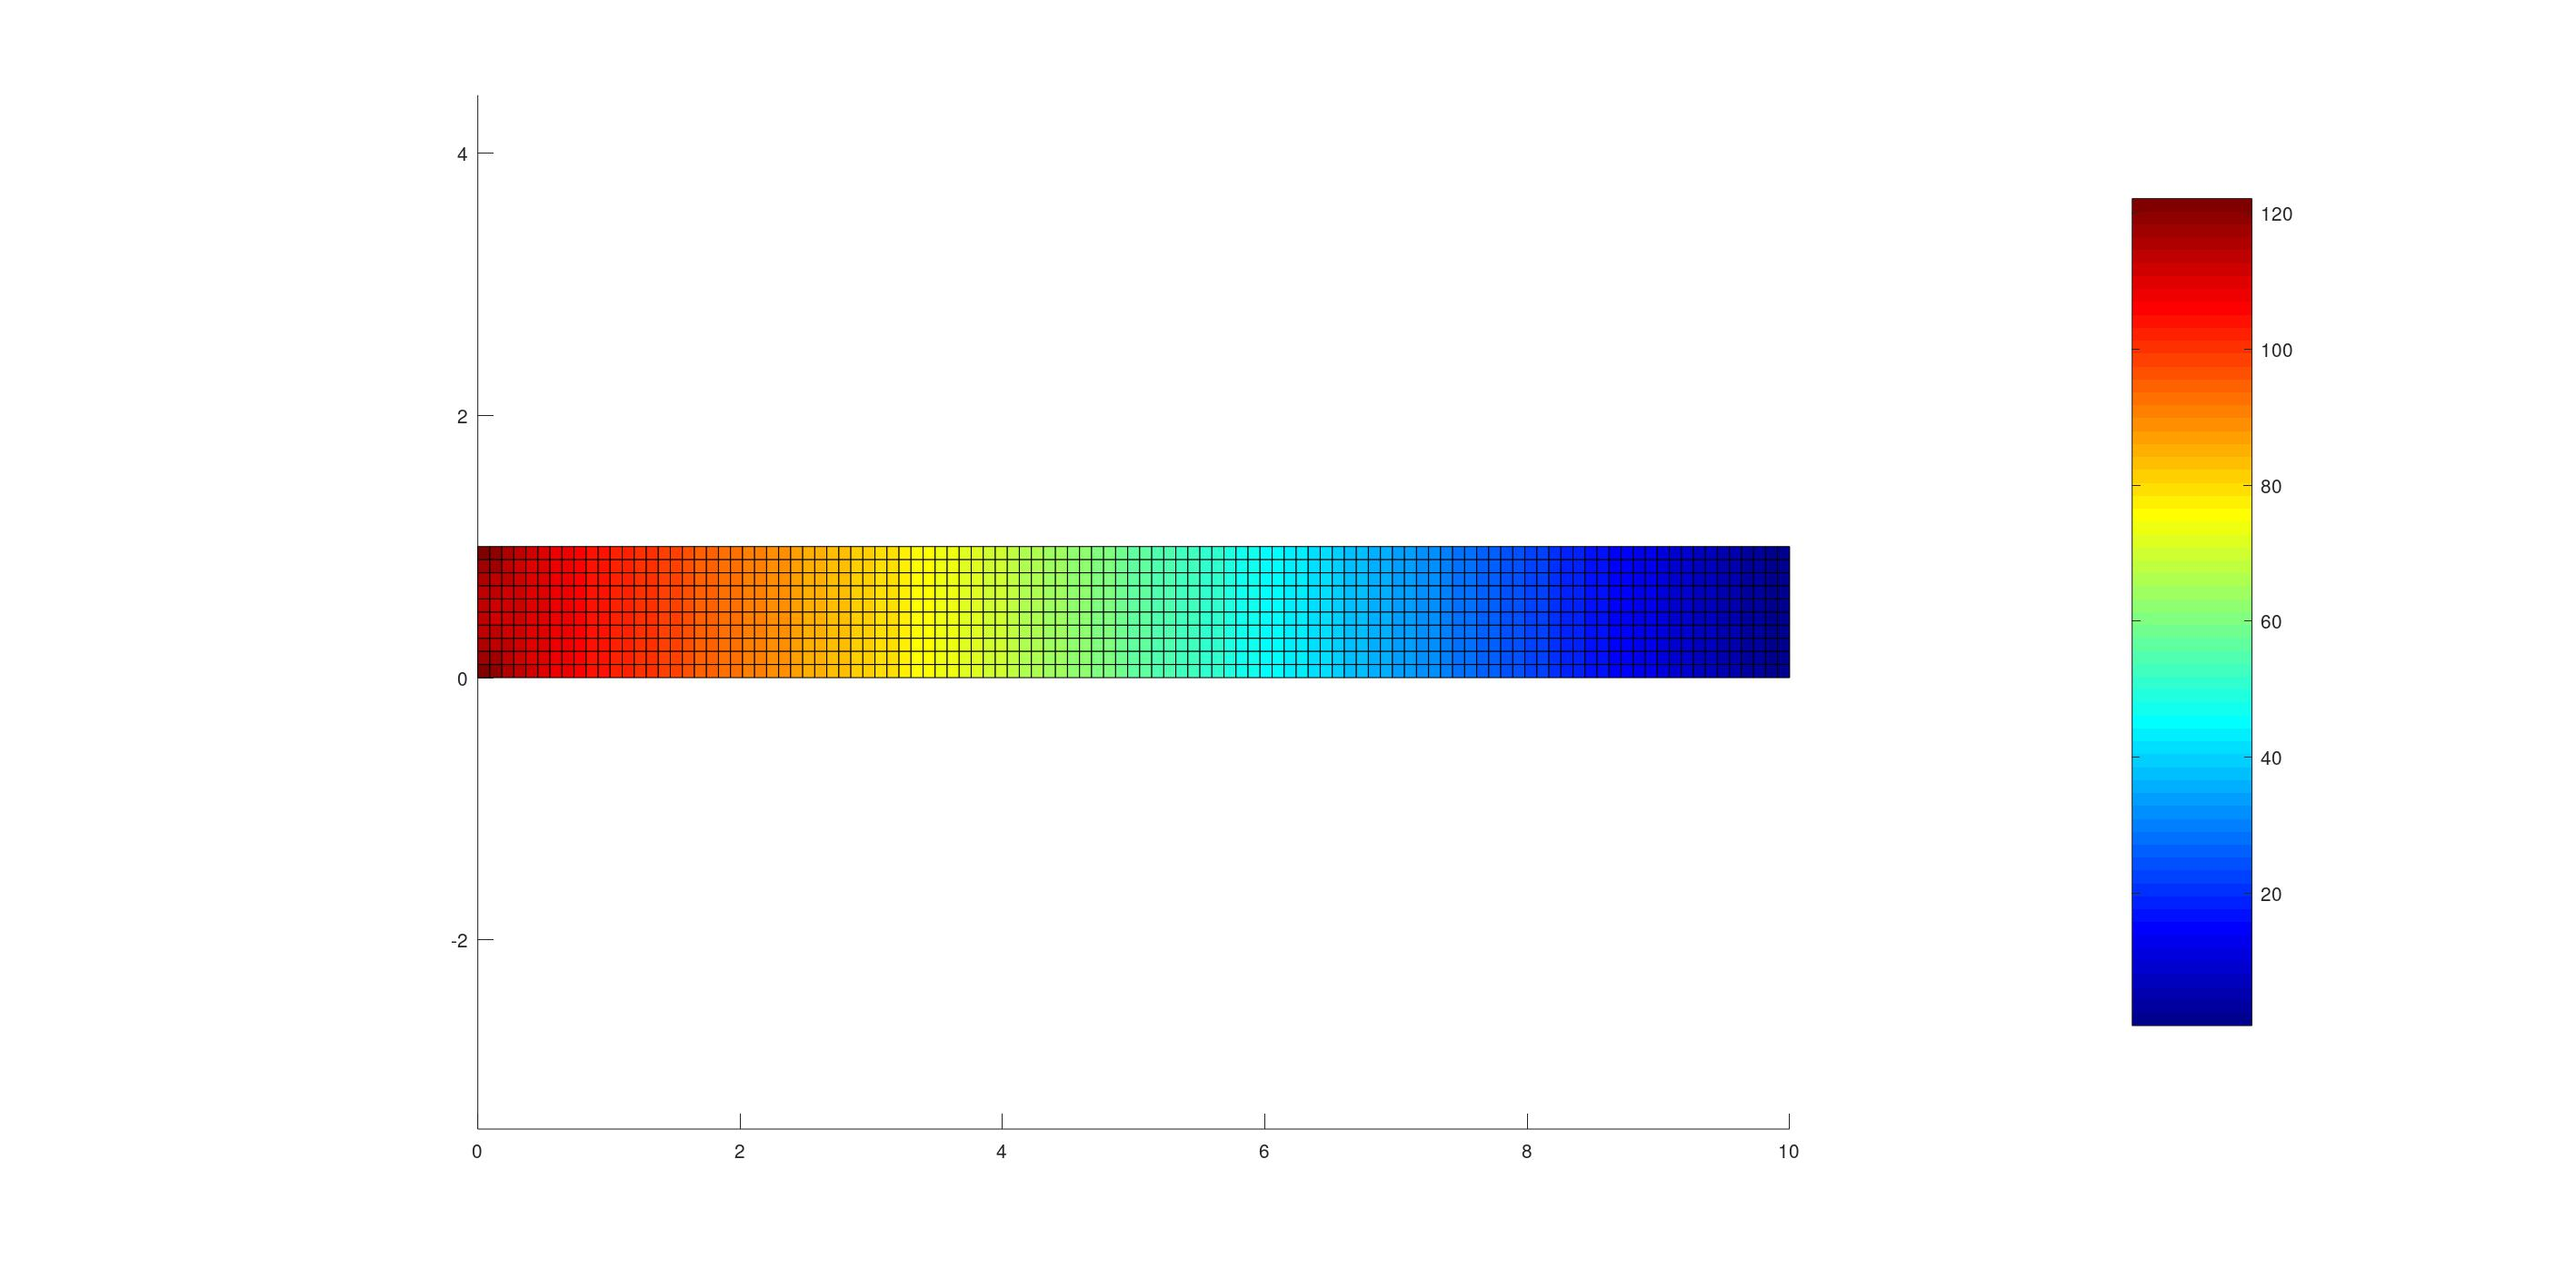
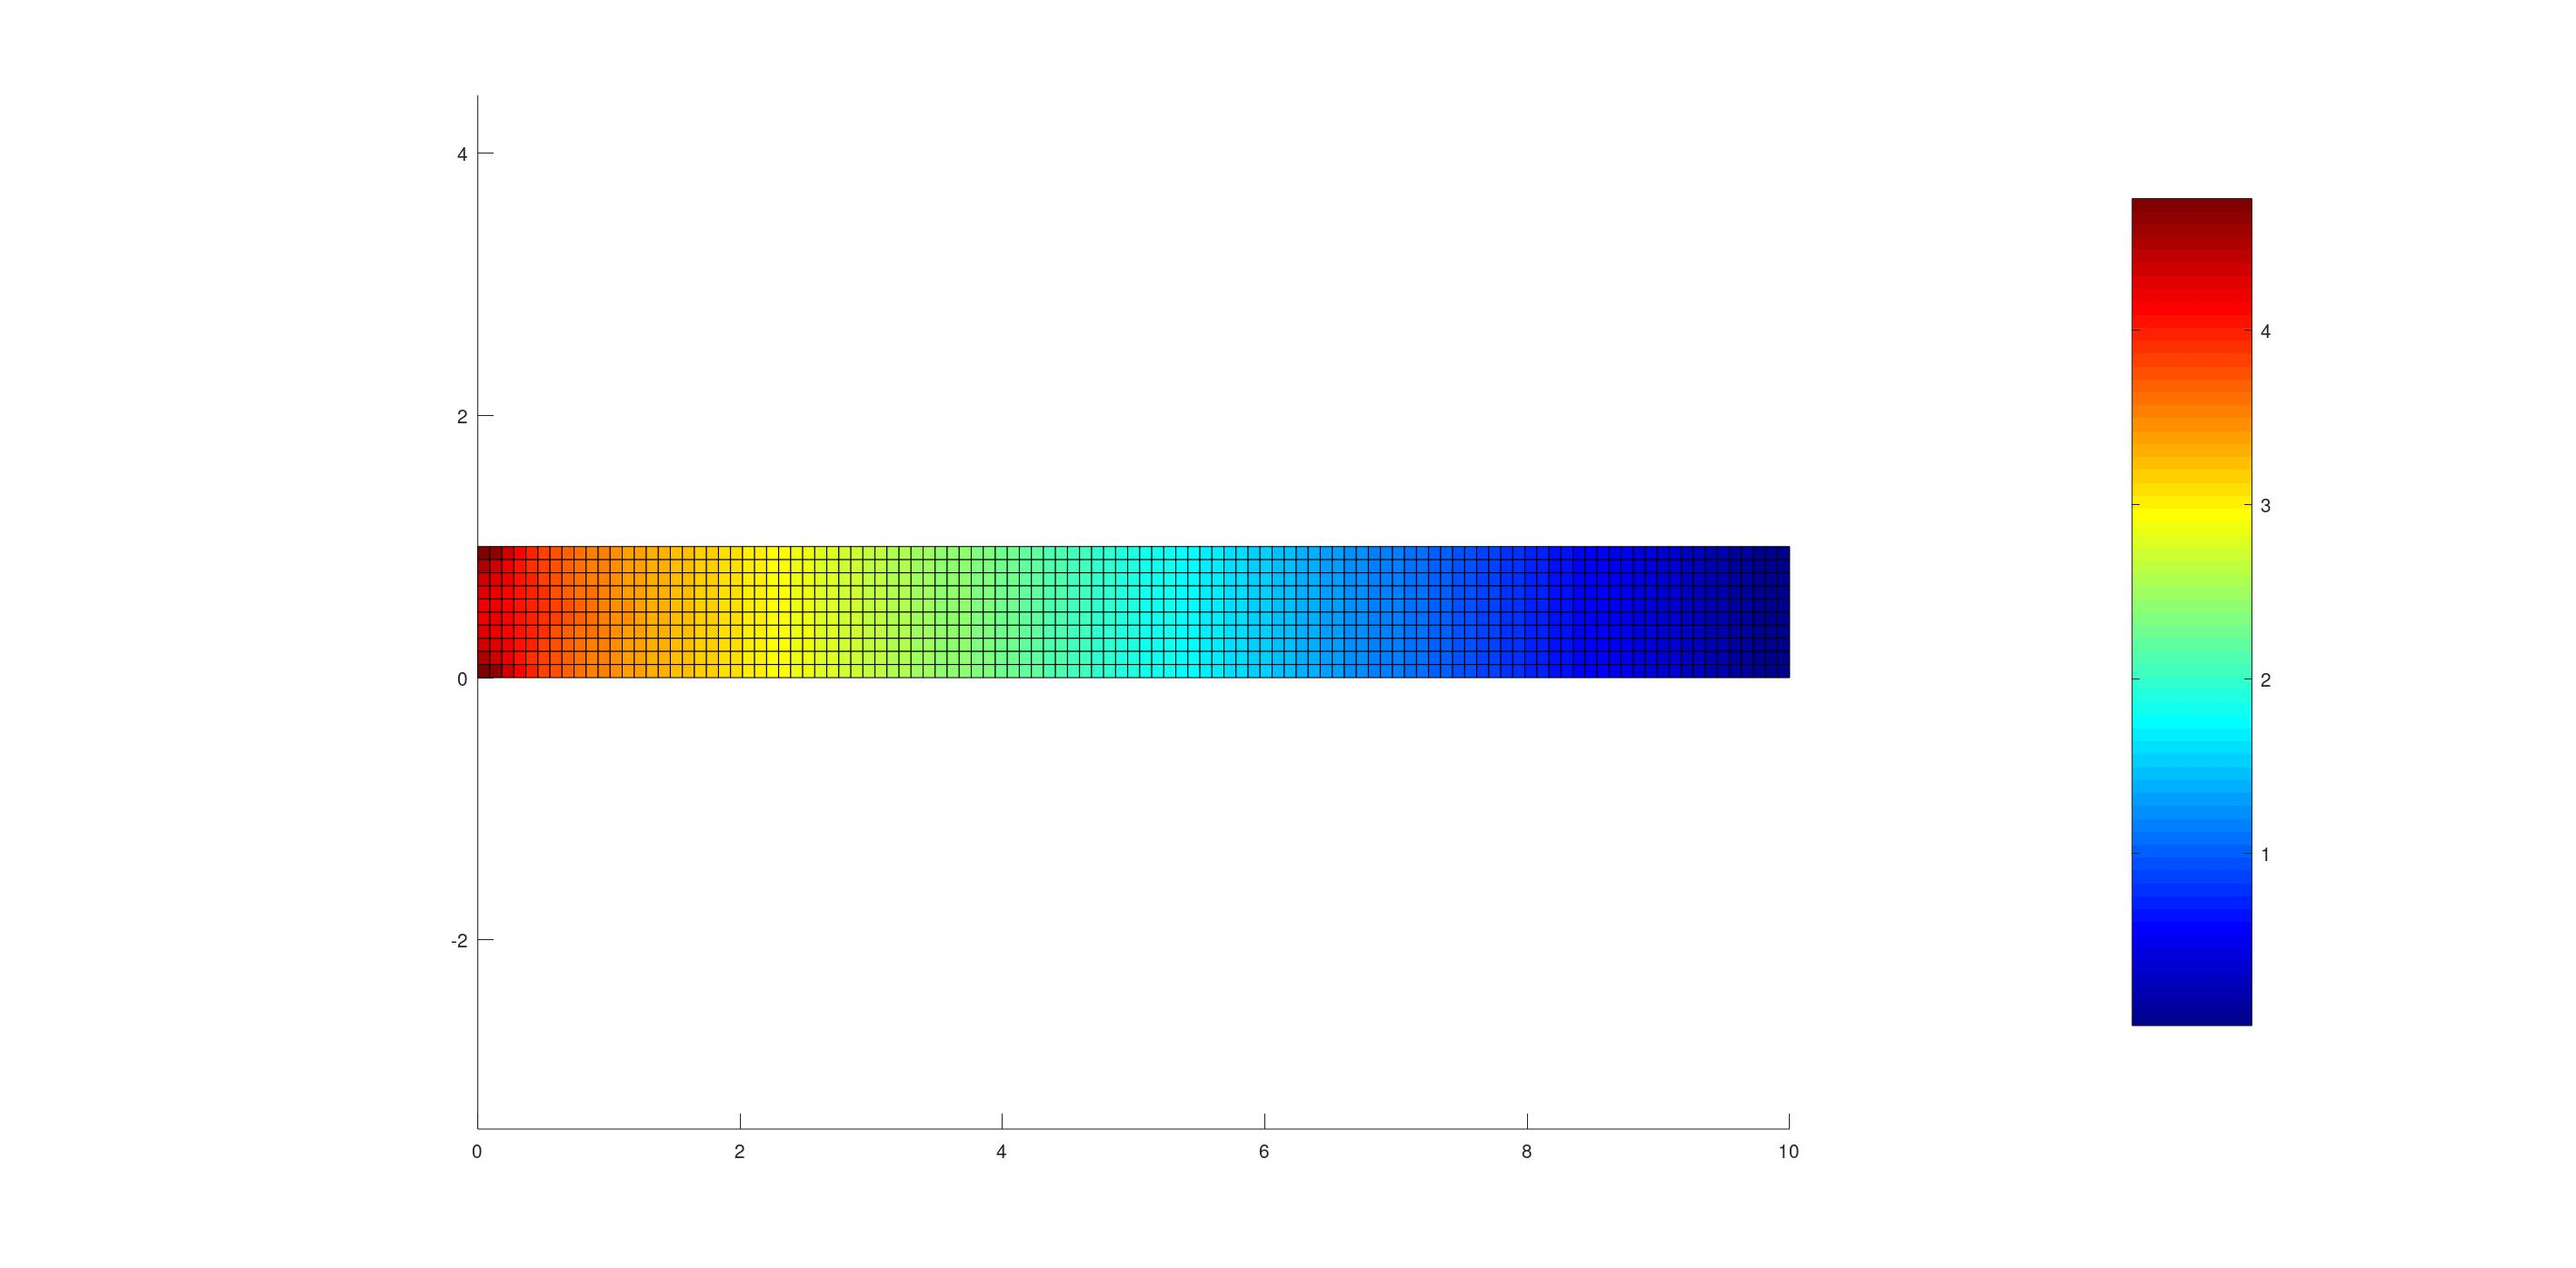
Modificaciones sobre conveccion en NS

Changed region(s): [[0.1863, 0.4312, 0.621, 0.5544]]

diff --git a/Scripts/FVMLab/FVM_Stokes_2D.m b/Scripts/FVMLab/FVM_Stokes_2D.m
@@ -48,8 +48,8 @@ flux = zeros(Mesh.nfaces, 1);
 [Ad_x, bd_x] = assemble_diffusion(Mesh, patches_u, nu);
 [Ad_y, bd_y] = assemble_diffusion(Mesh, patches_v, nu);
 
-wv = 0.7;
-wp = 0.3;
+wv = 0.4;
+wp = 0.6;
 
 d = eye(Mesh.ncells, 'logical');
 nExtIt = 100;
@@ -68,13 +68,14 @@ for iExtIt = 1:1:nExtIt
   [un_psif] = get_psif(Mesh, patches_u, u_n, vel, u_nf, grad_u_n, tvd_sch);
   [vn_psif] = get_psif(Mesh, patches_v, v_n, vel, v_nf, grad_v_n, tvd_sch);
 
-  %[Aa_x, ba_x] = assemble_advection_hr(Mesh, patches_u, vel, un_psif);
-  %[Aa_y, ba_y] = assemble_advection_hr(Mesh, patches_v, vel, vn_psif);
+  flux_w_vel = dot(vel(:, :),Mesh.Sf(:, :),2);
+  #[Aa_x, ba_x] = assemble_advection_hr(Mesh, patches_u, vel, un_psif);
+  #[Aa_y, ba_y] = assemble_advection_hr(Mesh, patches_v, vel, vn_psif);
   [Aa_x, ba_x] = assemble_advection_hr_flux(Mesh, patches_u, flux, un_psif);
   [Aa_y, ba_y] = assemble_advection_hr_flux(Mesh, patches_v, flux, vn_psif);
 
-  A_x = Ad_x + 0.*Aa_x;
-  A_y = Ad_y + 0.*Aa_y;
+  A_x = Ad_x + 1.*Aa_x;
+  A_y = Ad_y + 1.*Aa_y;
 
   b_relax_x = ((1-wv)/wv) * diag(A_x).*u_n; #Cuidado que este cálculo utiliza la matriz A sin relajar
   b_relax_y = ((1-wv)/wv) * diag(A_y).*v_n;
@@ -89,8 +90,8 @@ for iExtIt = 1:1:nExtIt
   bP_x = assemble_source(Mesh, - grad_P(:, 1));
   bP_y = assemble_source(Mesh, - grad_P(:, 2));
 
-  b_x = b_relax_x + bs_x + bd_x + 0.*ba_x + bP_x ;
-  b_y = b_relax_y + bs_y + bd_y + 0.*ba_y + bP_y;
+  b_x = b_relax_x + bs_x + bd_x + 1.*ba_x + bP_x ;
+  b_y = b_relax_y + bs_y + bd_y + 1.*ba_y + bP_y;
 
 
   u_n1 = A_x\b_x;
@@ -105,8 +106,8 @@ for iExtIt = 1:1:nExtIt
     [inv_aPf, _] = interp_phif_v2(Mesh, patches_none, inv_aP);
     %
     %Computo H
-    H_x = (-(A*u_n1 - diag(A).*u_n1) + bs_x + bd_x + 0.*ba_x + b_relax_x)./(Mesh.V);
-    H_y = (-(A*v_n1 - diag(A).*v_n1) + bs_y + bd_y + 0.*ba_y + b_relax_y)./(Mesh.V);
+    H_x = (-(A*u_n1 - diag(A).*u_n1) + bs_x + bd_x + 1.*ba_x + b_relax_x)./(Mesh.V);
+    H_y = (-(A*v_n1 - diag(A).*v_n1) + bs_y + bd_y + 1.*ba_y + b_relax_y)./(Mesh.V);
     %Interpolar H/ap en caras (H/ap)f
     [inv_aP_Hf_x, _] = interp_phif_v2(Mesh, patches_none, inv_aP.*H_x);
     [inv_aP_Hf_y, _] = interp_phif_v2(Mesh, patches_none, inv_aP.*H_y);
@@ -143,7 +144,7 @@ for iExtIt = 1:1:nExtIt
 
 endfor
 
-view2d_by_ele(Mesh.xnod, Mesh.icone, u_n1);
+view2d_by_ele(Mesh.xnod, Mesh.icone, P_k1);
 axis equal;
 
 colormap jet;
@@ -152,6 +153,5 @@ colorbar;
 
 
 
-
-
+#12 explota
 

diff --git a/Scripts/FVMLab/assemble_advection_hr_flux.m b/Scripts/FVMLab/assemble_advection_hr_flux.m
@@ -12,7 +12,7 @@ function [A, b] = assemble_advection_hr_flux(Mesh, patches, flux, psif)
             dv = Mesh.C(n, :) - Mesh.C(o, :);
             d = norm(dv, 2);
 
-            if flux > 0
+            if flux(iface) > 0
               fx = norm(Mesh.C(n, :) - Mesh.Cf(iface, :),2)/d;
               A(o, o) = A(o, o) + (1 - 0.5*psif(iface))*flux(iface);
               A(o, n) = A(o, n) + 0.5*psif(iface)*flux(iface);
@@ -26,6 +26,7 @@ function [A, b] = assemble_advection_hr_flux(Mesh, patches, flux, psif)
               A(o, o) = A(o, o) + 0.5*psif(iface)*flux(iface);
             endif
 
+
          else
             % tratamiento de caras de frontera
             phib = -1;
@@ -36,7 +37,7 @@ function [A, b] = assemble_advection_hr_flux(Mesh, patches, flux, psif)
                 end
             end
             if strcmp(phib.type, 'Dirichlet')
-              if flux > 0
+              if flux(iface) > 0
                 b(o) = b(o) - phib.value*flux(iface);
               else
                 b(o) = b(o) - phib.value*flux(iface);

diff --git a/Scripts/FVMLab/Utils/placa_u.m b/Scripts/FVMLab/Utils/placa_u.m
@@ -11,7 +11,7 @@ function [patches] = placa_u(xnod, faces, bf)
     f_bot = abs(xnod(faces(bf,1),2)-xmin(2))<1e-3 & abs(xnod(faces(bf,2),2)-xmin(2))<1e-3; f_bot = bf(f_bot);
 
 
-    patches{1}.faces = f_left; patches{1}.name = 'left'; patches{1}.type = 'Dirichlet'; patches{1}.value = 3;
+    patches{1}.faces = f_left; patches{1}.name = 'left'; patches{1}.type = 'Dirichlet'; patches{1}.value = 1;
     patches{2}.faces = f_right; patches{2}.name = 'right'; patches{2}.type = 'Neumann'; patches{2}.value = 0;
     patches{3}.faces = f_top; patches{3}.name = 'top'; patches{3}.type = 'Dirichlet'; patches{3}.value = 0;
     patches{4}.faces = f_bot;patches{4}.name = 'bottom'; patches{4}.type = 'Dirichlet'; patches{4}.value = 0;
